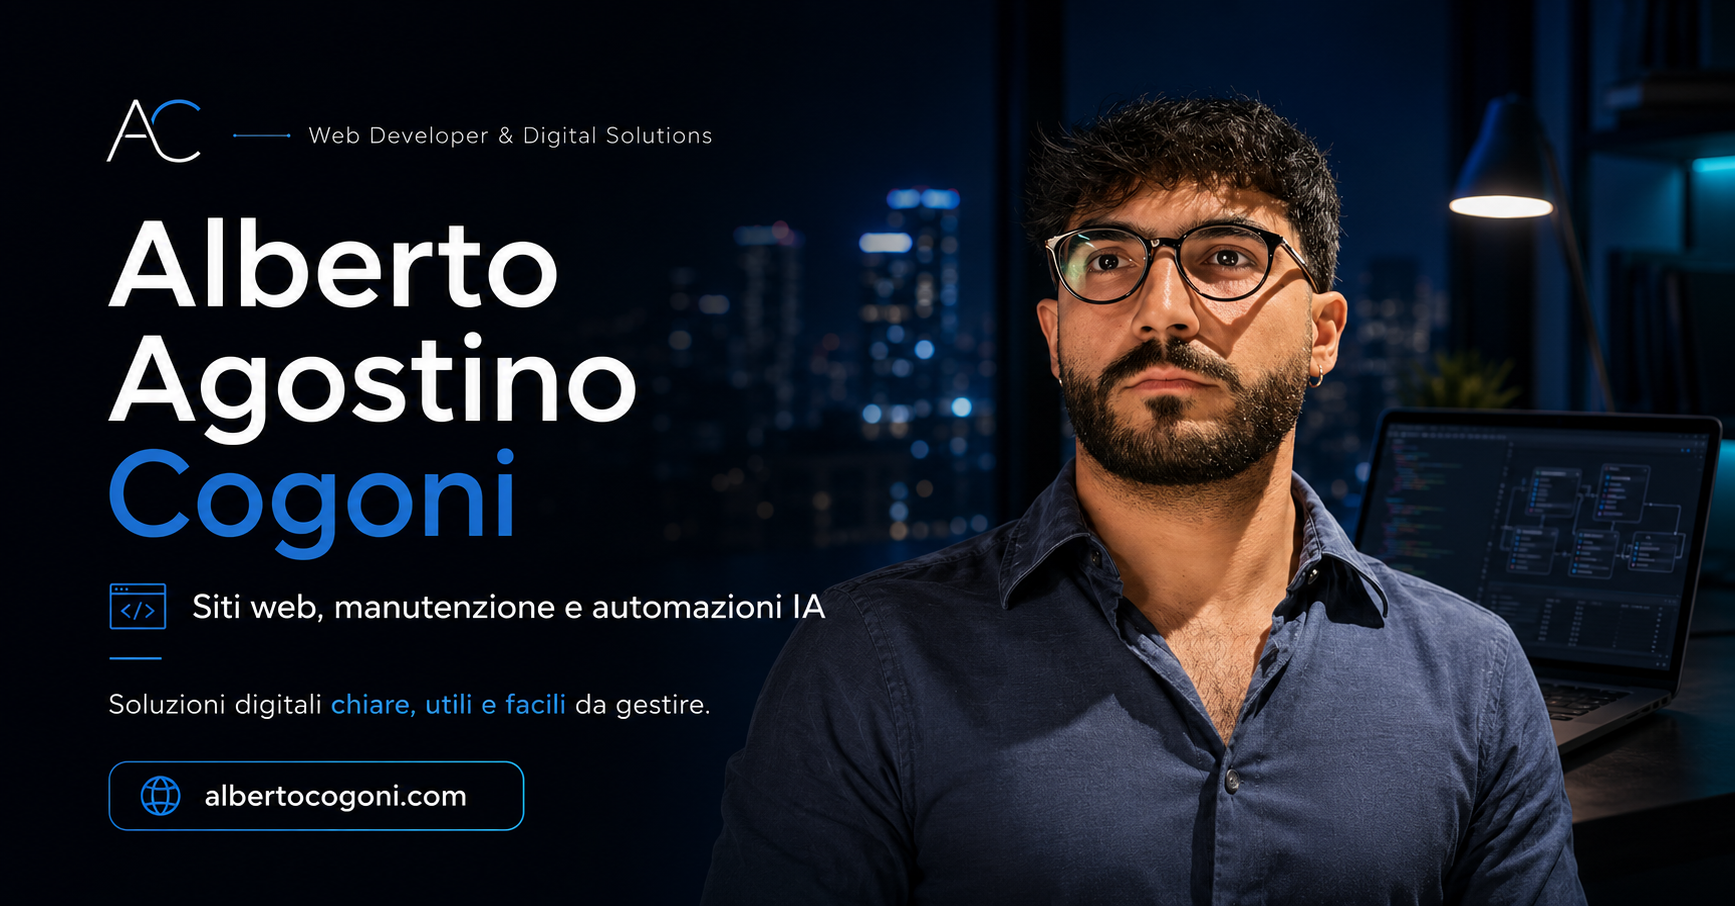
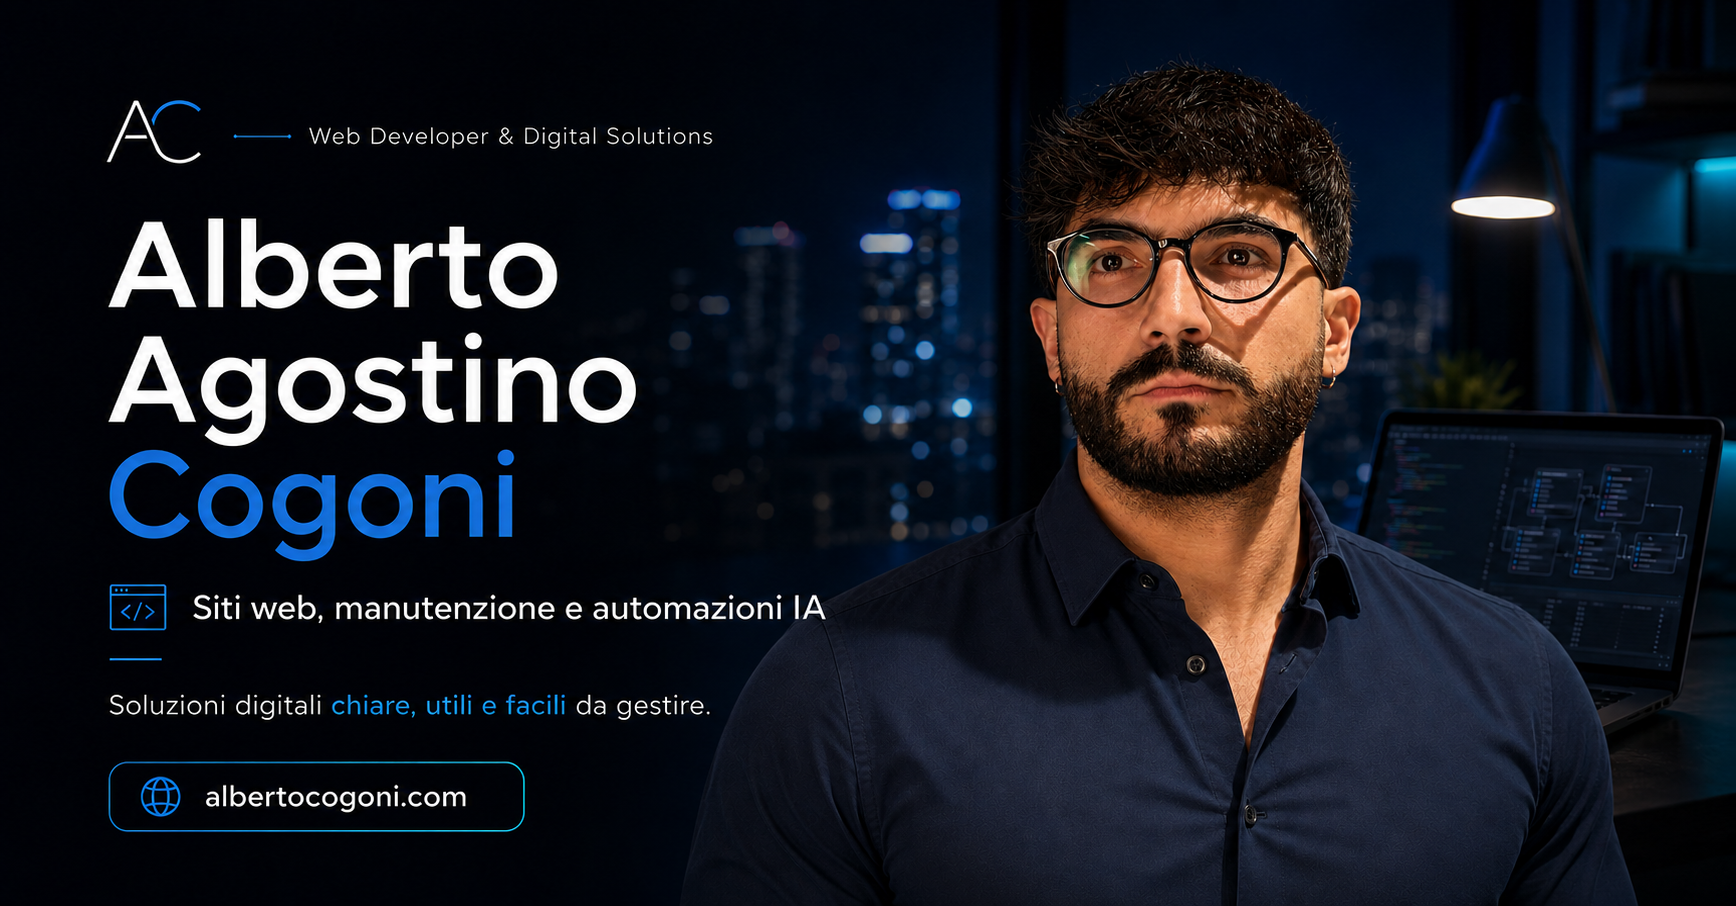
Refresh portfolio link preview image

diff --git a/index.html b/index.html
@@ -10,7 +10,7 @@
     <meta property="og:type" content="website">
     <meta property="og:url" content="https://albertocogoni.com/">
     <meta property="og:image" content="https://albertocogoni.com/Assets/images/portfolio-preview.png">
-    <meta property="og:image:width" content="1735">
+    <meta property="og:image:width" content="1736">
     <meta property="og:image:height" content="906">
     <meta property="og:image:alt" content="Alberto Agostino Cogoni - Web Developer & Digital Solutions">
     <meta name="twitter:card" content="summary_large_image">
